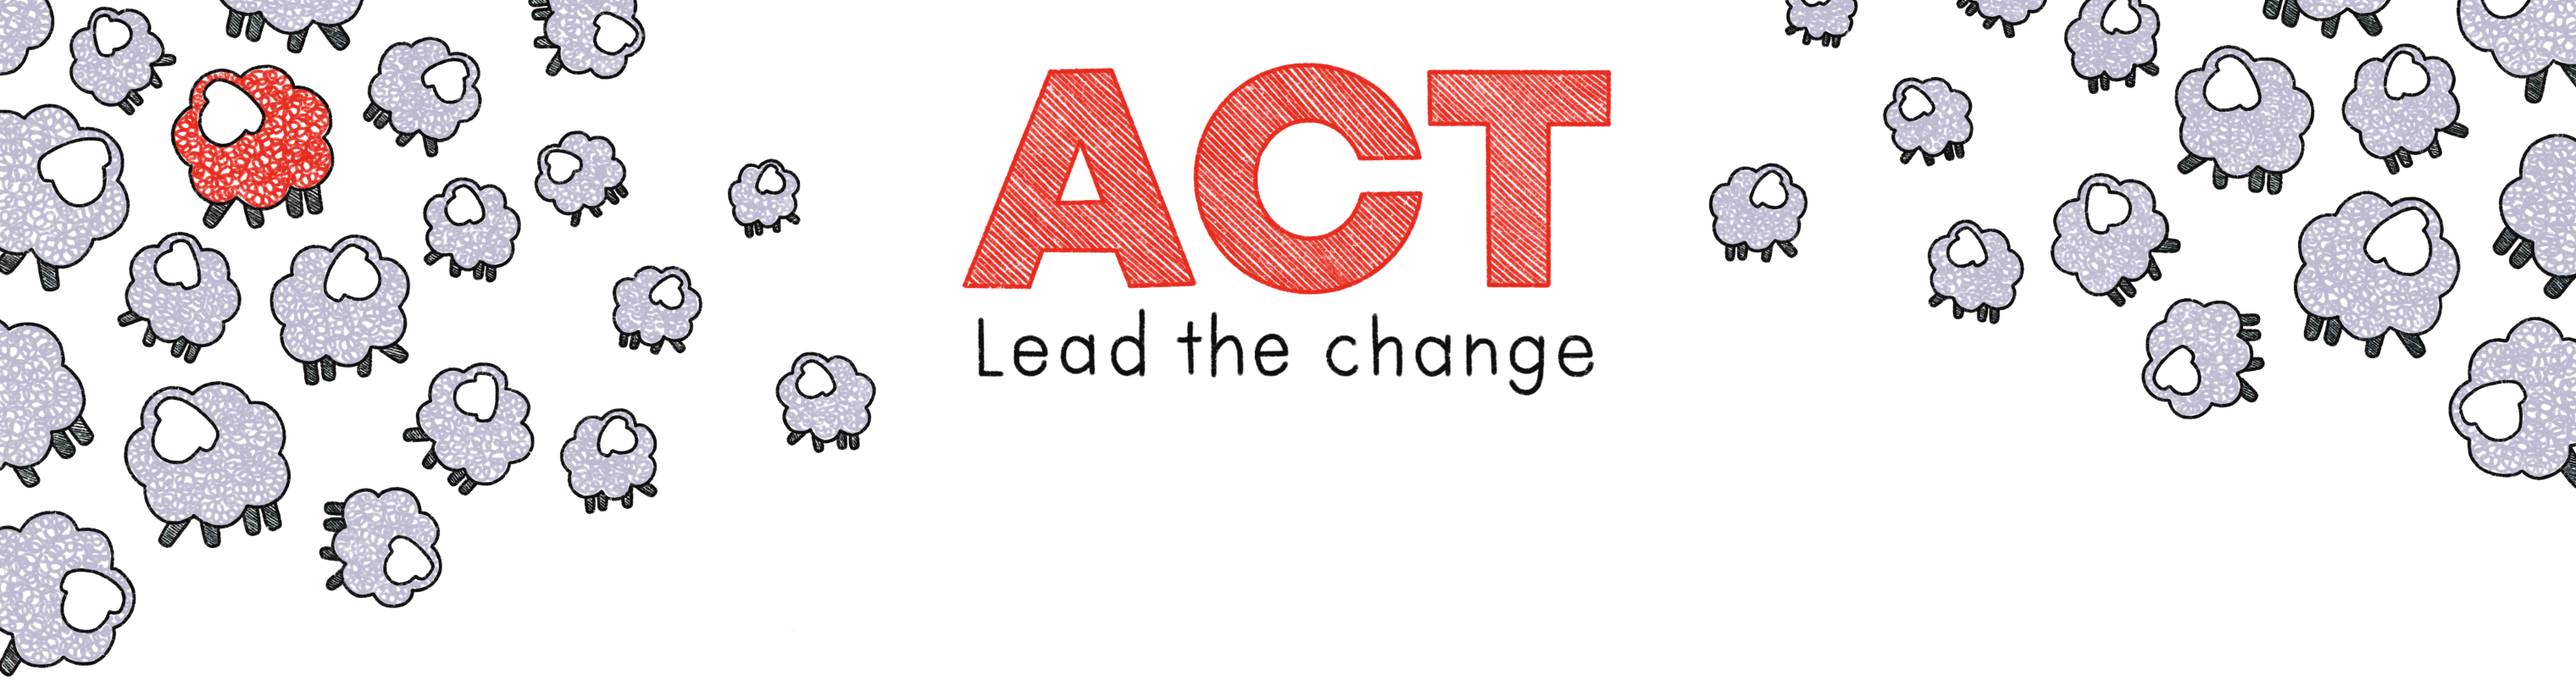
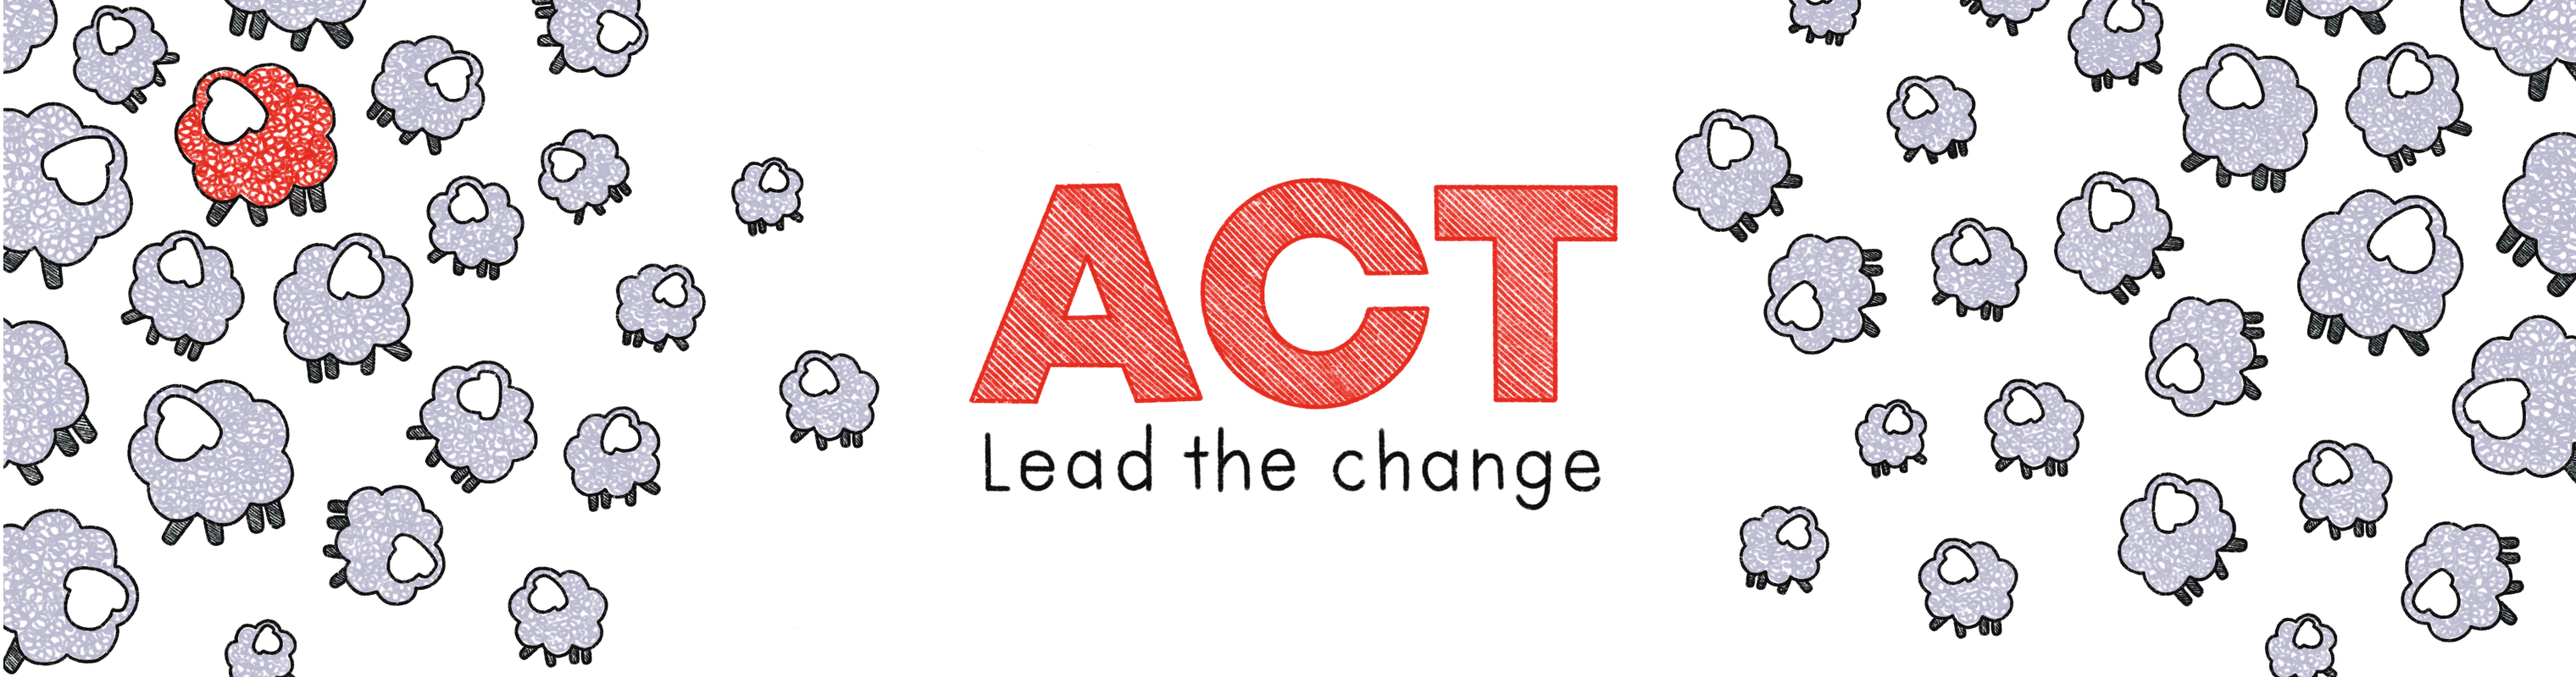
edizione 2022

diff --git a/src/components/pages/Edizione2022.jsx b/src/components/pages/Edizione2022.jsx
@@ -41,7 +41,7 @@ export default function Edizione2022() {
 	return (
 		<>
 			<header
-				className="header ed2022"
+				className="header-ed2022"
 				style={{
 					padding: "10px",
 					textAlign: "center",
@@ -50,9 +50,7 @@ export default function Edizione2022() {
 					
 				}}
 			>
-				<div>
-					<LazyLoadImage src={Image} alt="Pecora" height="300" />
-				</div>
+				
 			</header>
 
 			<section className="where-is-the-event row pt-3 pb-3">

diff --git a/src/index.css b/src/index.css
@@ -74,3 +74,10 @@ code {
 	background: radial-gradient(ellipse at top, #e62b1e, transparent),
 		radial-gradient(ellipse at bottom, #822433, transparent);
 }
+
+.header-ed2022{
+	background-image: url("./components/images/Edizione2022.png");
+	background-position: center;
+	background-repeat: no-repeat;
+	background-size: cover;
+}
